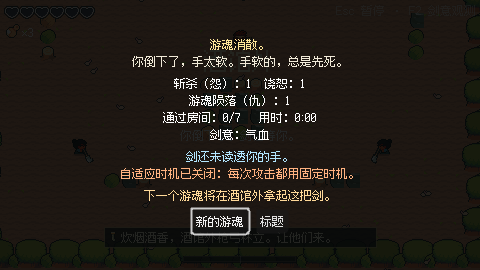
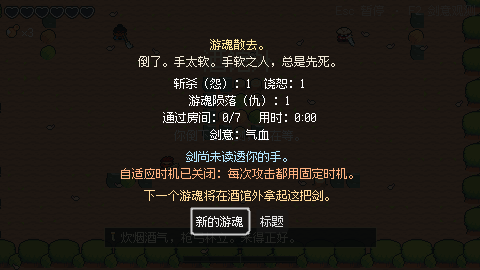
Refresh README GIFs and docs/screens for the current game
screens_all.sh also captures food and flash step from their scenarios (all three
languages). PROGRESS notes the regenerated visuals and an older Dutch overflow.

Claude-Session: https://claude.ai/code/session_01AfcAfqa33AD2jS3FNB8M79

diff --git a/PROGRESS.md b/PROGRESS.md
@@ -43,8 +43,14 @@ tag). Unit tests: 179 pass (Combat 141, Director 35, Localization 3). Scenarios:
 ### Known issues
 - Flash step is unblockable but not invulnerable; whether that is right needs your hands on it.
 - Food only drops in rooms; leaving a room leaves its food behind.
-- The README GIFs and most of `docs/screens/` predate these items; only the `run_upgrade_*`
-  screens were regenerated.
+- README GIFs and `docs/screens/` regenerated after review (`tools/gifs.sh`,
+  `tools/screens_all.sh`). The bot runs never happen to show food or a flash step, so
+  `screens_all.sh` now also captures `food_<locale>.png` and `flash_step_<locale>.png` from the
+  `food_drop` and `flash_step` scenarios. The rooms in the shots and GIFs are the new seed-7
+  layouts.
+- Older bug, still there: in Dutch, the win summary's last line ("Detailmodus staat nu in de
+  instellingen: ...") runs off the right edge (`summary_win_nl.png`). Shorten the nl text of
+  `summary.detail_unlocked` or let the line wrap.
 - Gamepad RT for flash step is mapped as a trigger axis; I could not test a real pad here.
 
 ### Playtest checklist
